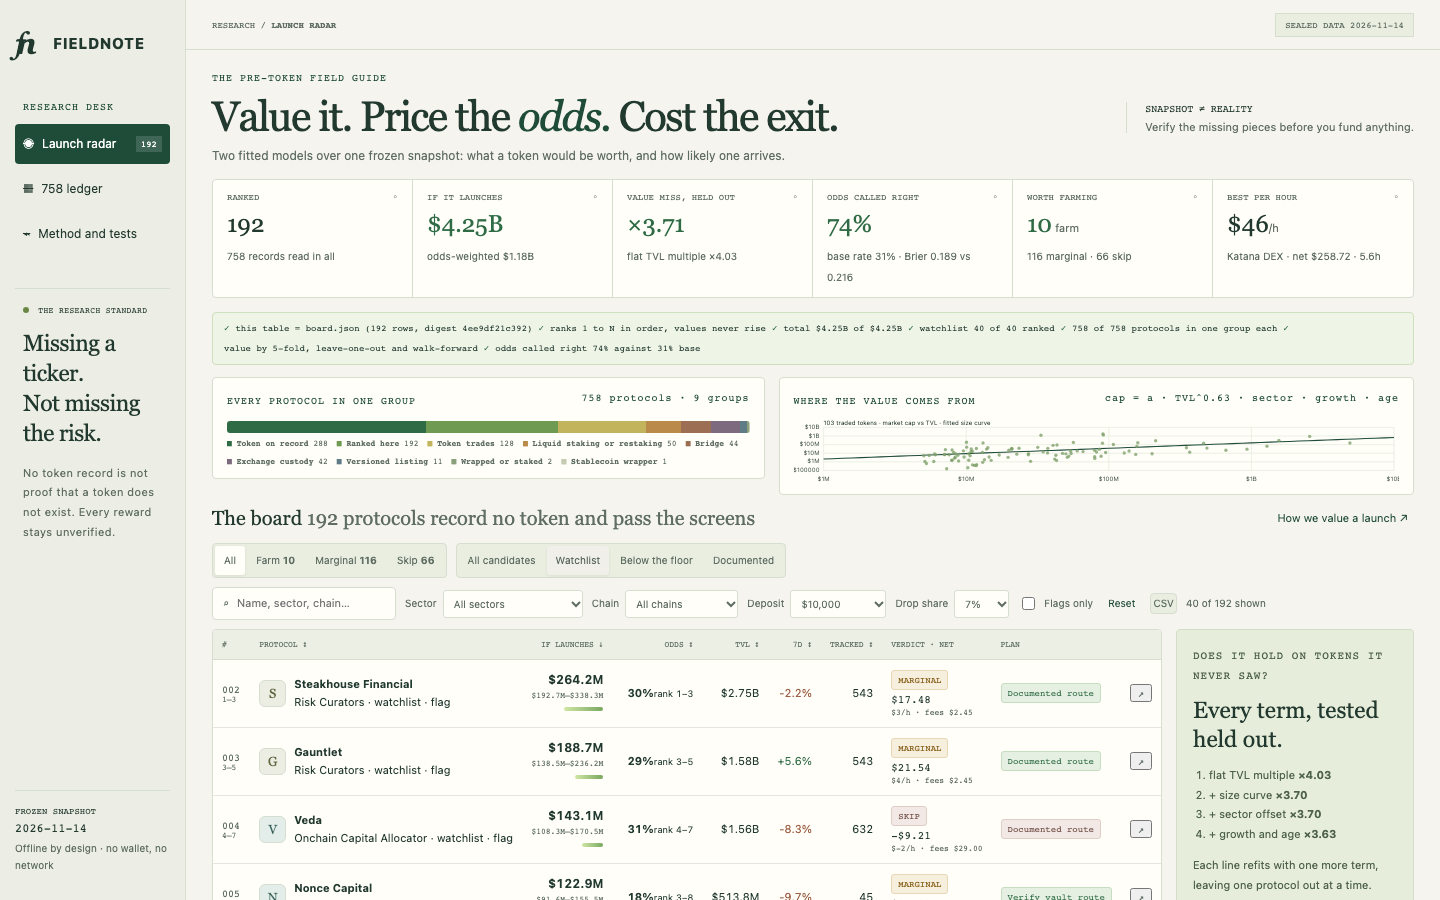
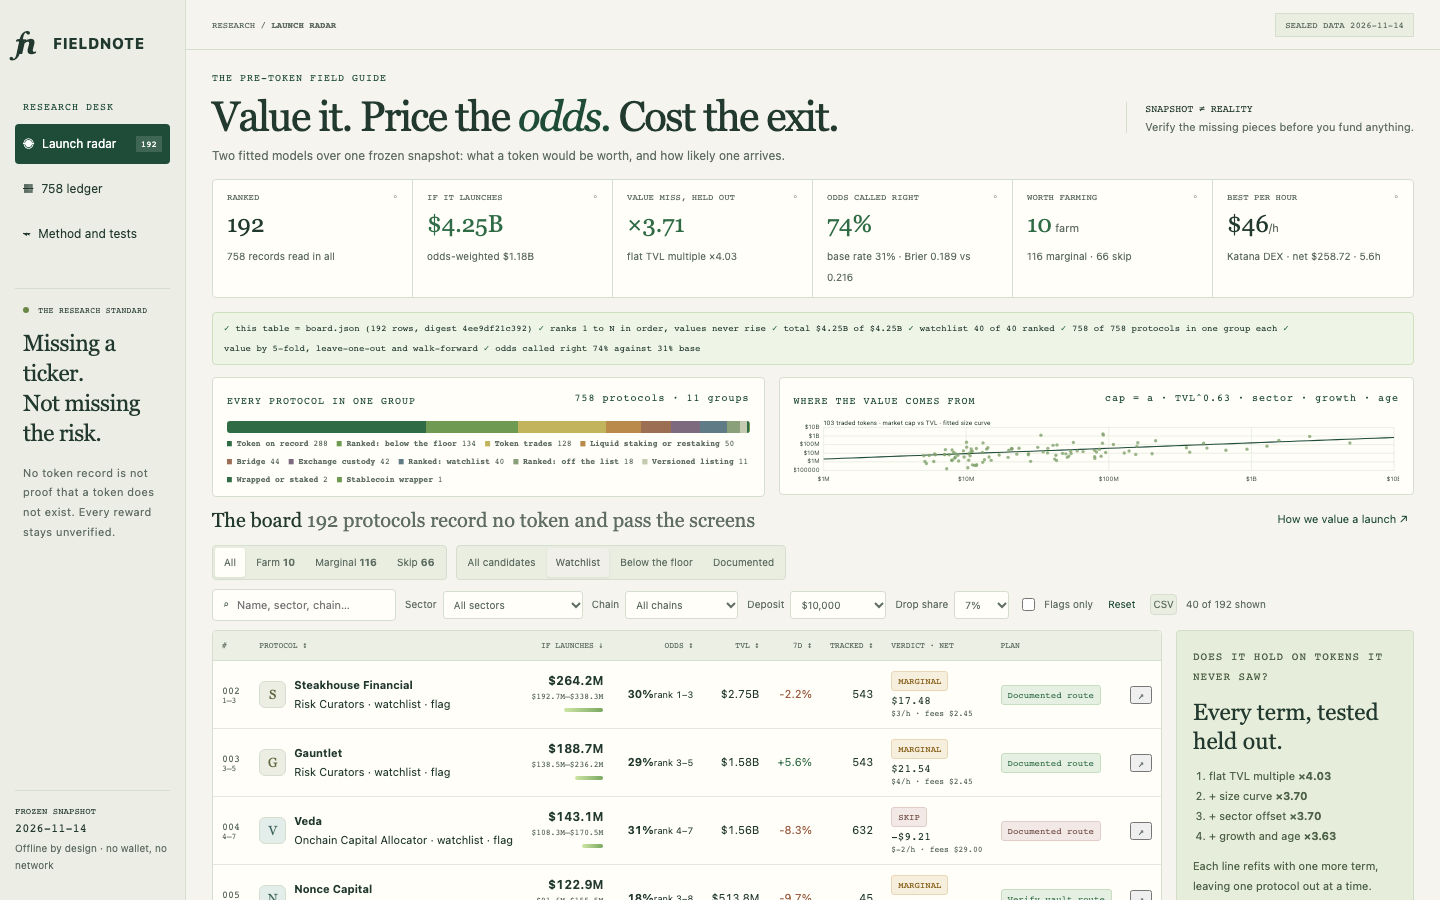
feat: split the ledger at the house floor
The board already ranks both sides of the watchlist, so the ledger now
names them: Ranked: watchlist, Ranked: below the floor and Ranked: off
the list, which is how 192 rows read against a floor of 40. Add a test
that the split matches the rows and that the band below the floor is not
empty.

diff --git a/dashboard/app.js b/dashboard/app.js
@@ -169,8 +169,8 @@ function ledger() {
   state.ledgerPage = Math.min(state.ledgerPage, Math.max(0, Math.ceil(rows.length / LEDGER_PAGE) - 1));
   const start = state.ledgerPage * LEDGER_PAGE;
   $('ledger-body').innerHTML = rows.slice(start, start + LEDGER_PAGE).map(l => `<tr><td><b>${esc(l.name)}</b><i>${esc(l.category ?? 'Unclassified')}</i></td>
-    <td><span class="tag ${l.group === 'Ranked here' ? 'farm' : l.group === 'Token trades' ? 'marginal' : 'skip'}">${esc(l.group)}</span></td>
-    <td class="muted">${esc(l.record)}${l.group === 'Ranked here' ? ' · ranked on the board' : ''}</td><td class="num">${money(l.tvl_usd)}</td></tr>`).join('')
+    <td><span class="tag ${l.group.startsWith('Ranked') ? 'farm' : l.group === 'Token trades' ? 'marginal' : 'skip'}">${esc(l.group)}</span></td>
+    <td class="muted">${esc(l.record)}${l.group.startsWith('Ranked') ? ' · ranked on the board' : ''}</td><td class="num">${money(l.tvl_usd)}</td></tr>`).join('')
     || '<tr><td colspan="4" class="muted">No protocol in this group.</td></tr>';
   $('ledger-info').textContent = `${rows.length ? start + 1 : 0}–${Math.min(start + LEDGER_PAGE, rows.length)} of ${rows.length}`;
   $('ledger-prev').disabled = start === 0; $('ledger-next').disabled = start + LEDGER_PAGE >= rows.length;

diff --git a/dashboard/engine.js b/dashboard/engine.js
@@ -310,10 +310,15 @@ const LEDGER_CATEGORY = new Map([
   ['CEX', 'Exchange custody'], ['Stablecoin Wrapper', 'Stablecoin wrapper'],
 ]);
 function ledgerGroups(snapshot, ranked) {
+  const watch = new Set(snapshot.watchlist);
   return snapshot.protocols.map(p => {
     const reason = exclusionReason(p);
+    // The board ranks past the watchlist on both sides: the two floor groups say so, so the reader
+    // can see the list is the floor and never the ceiling.
+    const held = watch.has(p.slug) ? 'Ranked: watchlist'
+      : p.tvl_usd < snapshot.floor_usd ? 'Ranked: below the floor' : 'Ranked: off the list';
     const group = tokenRecorded(p) ? (p.mcap_usd !== null && p.mcap_usd > 0 ? 'Token trades' : 'Token on record')
-      : ranked.has(p.slug) ? 'Ranked here'
+      : ranked.has(p.slug) ? held
       : LEDGER_CATEGORY.get(p.category) ?? (reason === 'Versioned product of another protocol' ? 'Versioned listing'
         : reason === 'Name carries existing-token exposure' ? 'Wrapped or staked'
         : reason === 'Exchange-linked product' ? 'Exchange custody'
